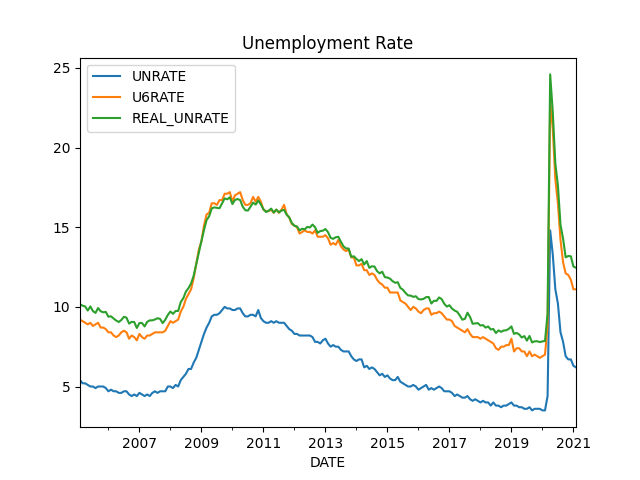
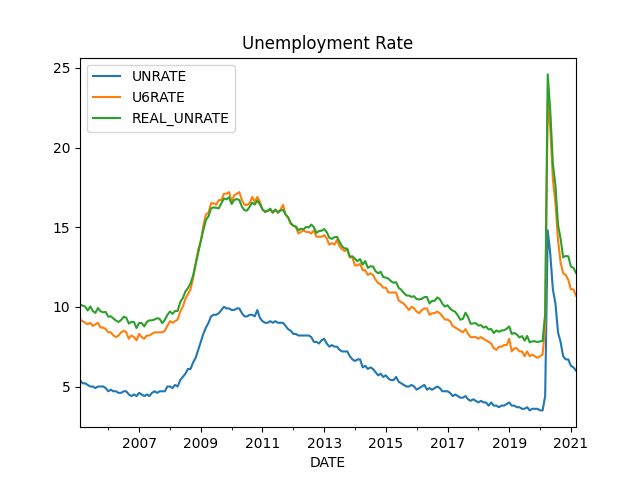
-

diff --git a/en/2019/05/stats.md b/en/2019/05/stats.md
@@ -257,11 +257,11 @@ plt.savefig('unemploy.png')
 ```text
             UNRATE  U6RATE  REAL_UNRATE  REAL_UNEMP_LEVEL
 DATE                                                     
-2020-10-01     6.9    12.1    13.106808           21065.0
 2020-11-01     6.7    12.0    13.190499           21175.5
 2020-12-01     6.7    11.7    13.173317           21152.0
 2021-01-01     6.3    11.1    12.527394           20064.0
 2021-02-01     6.2    11.1    12.451704           19949.0
+2021-03-01     6.0    10.7    12.128327           19473.0
 ```
 
 ![](unemploy.png)
